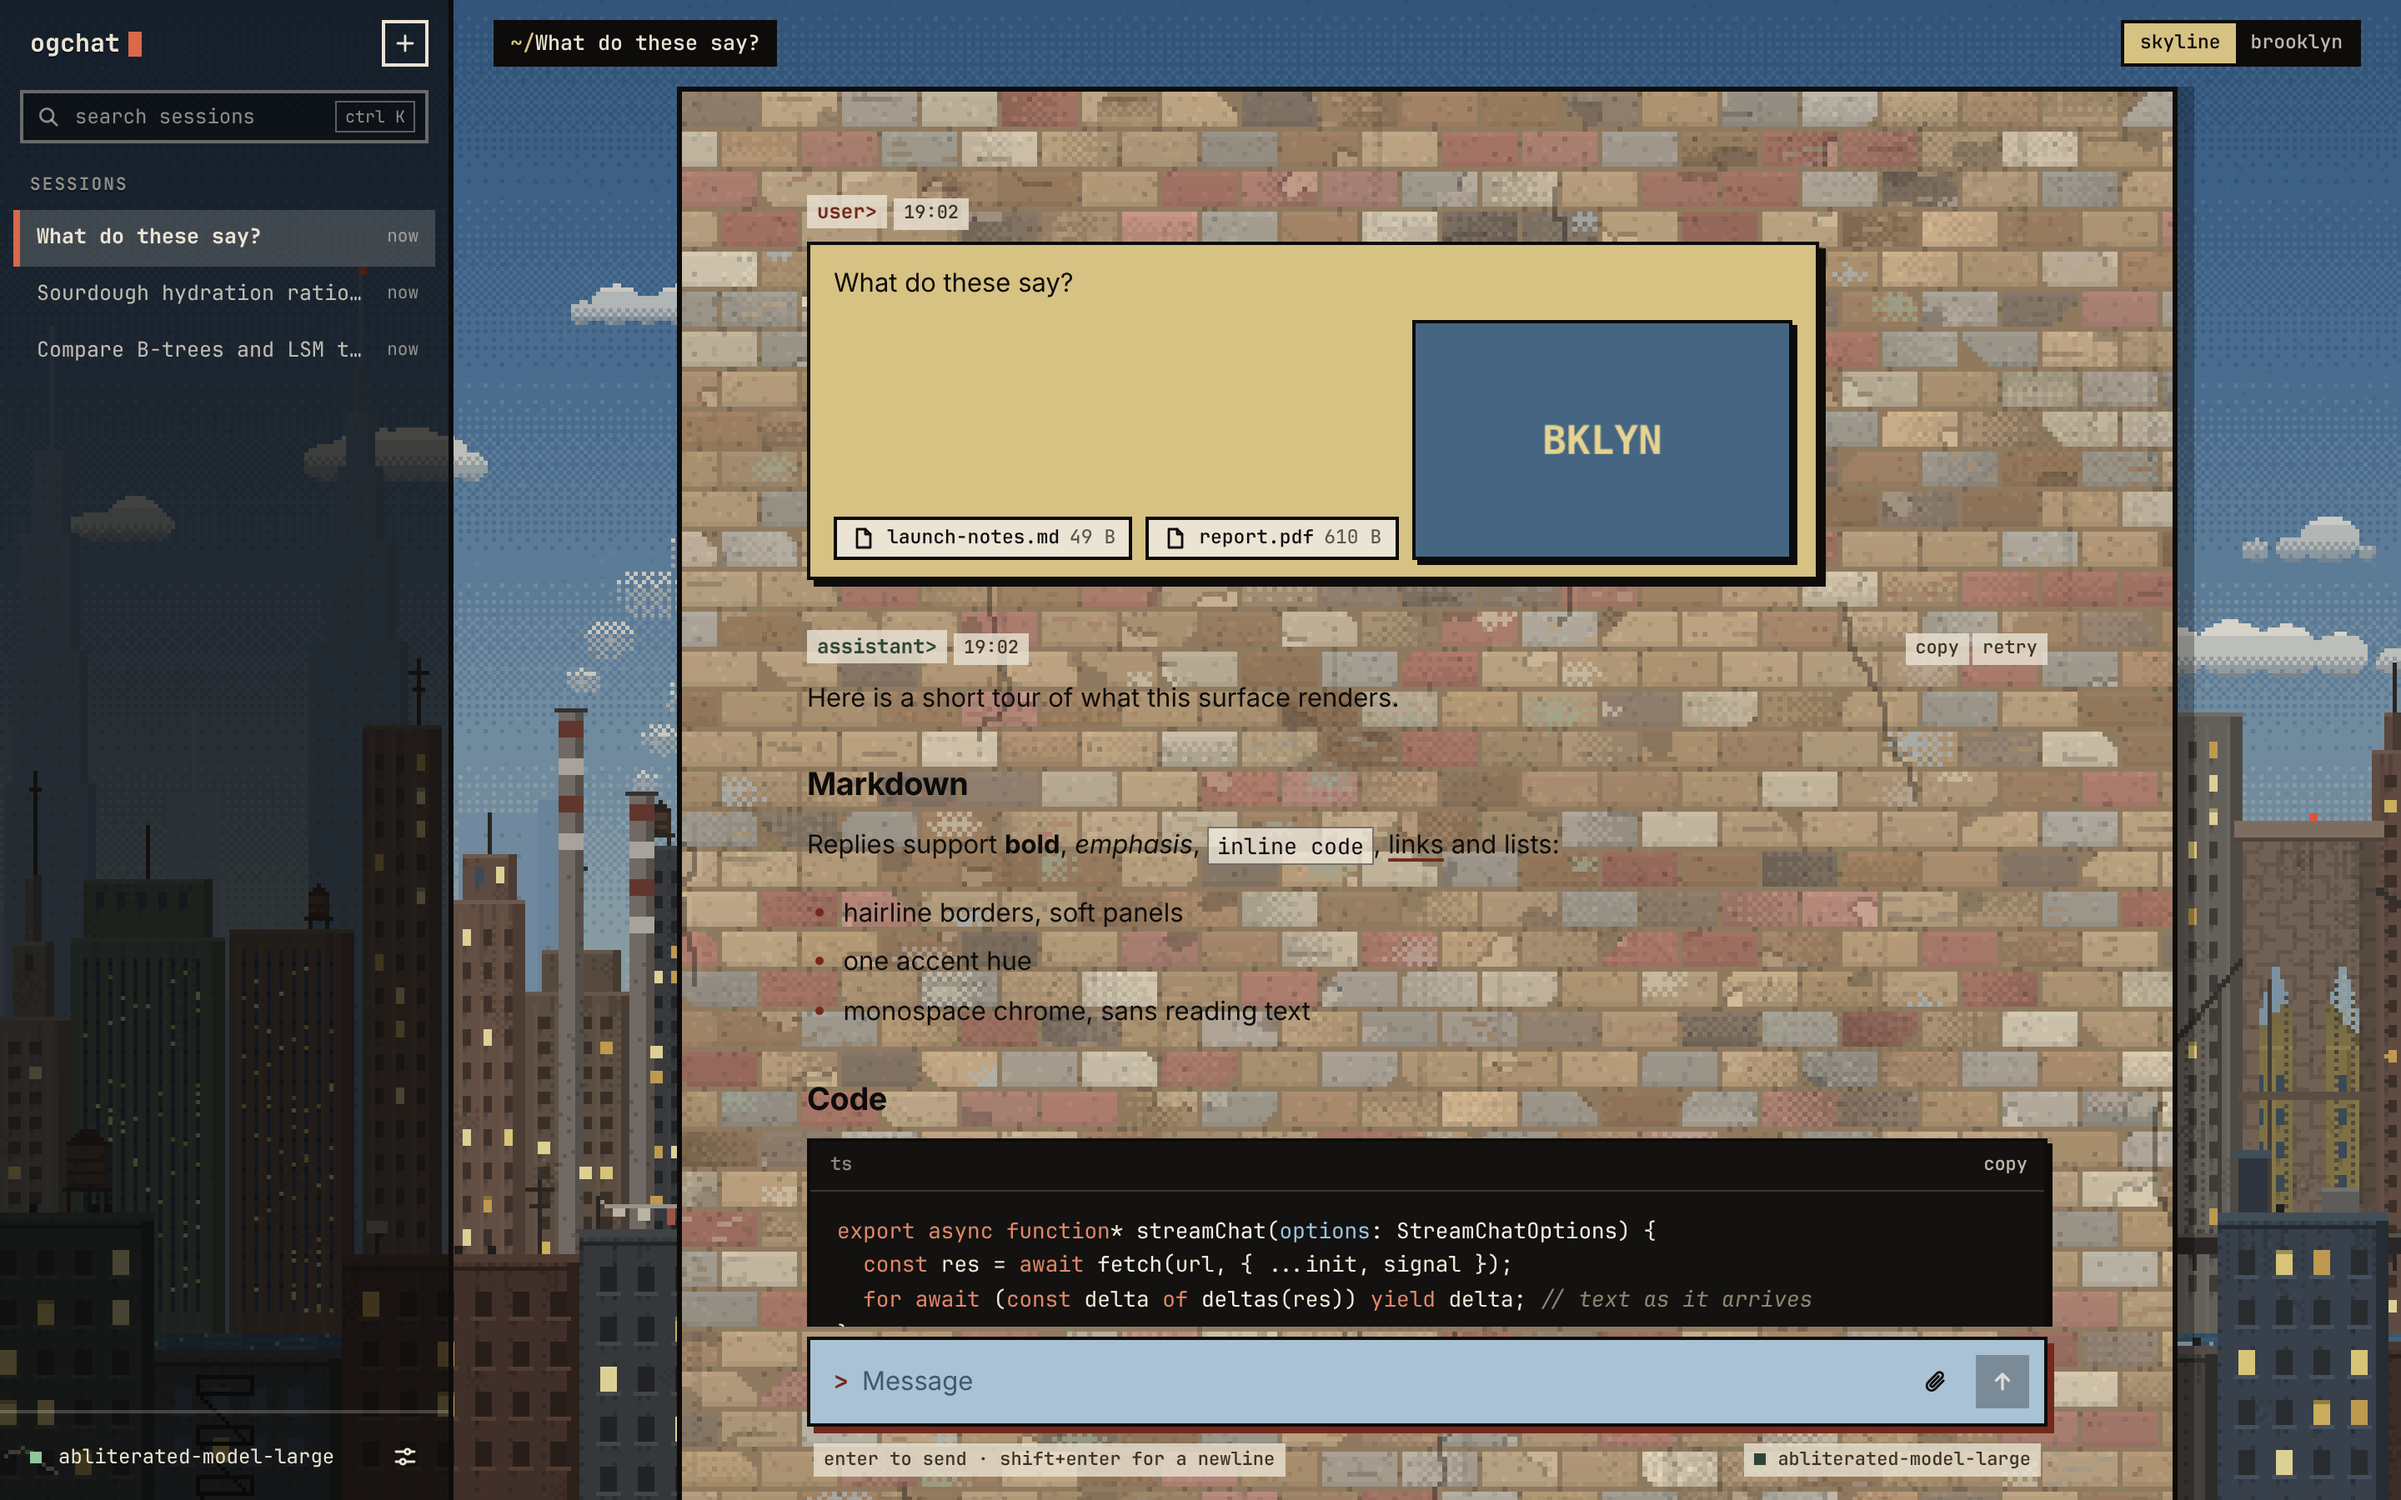
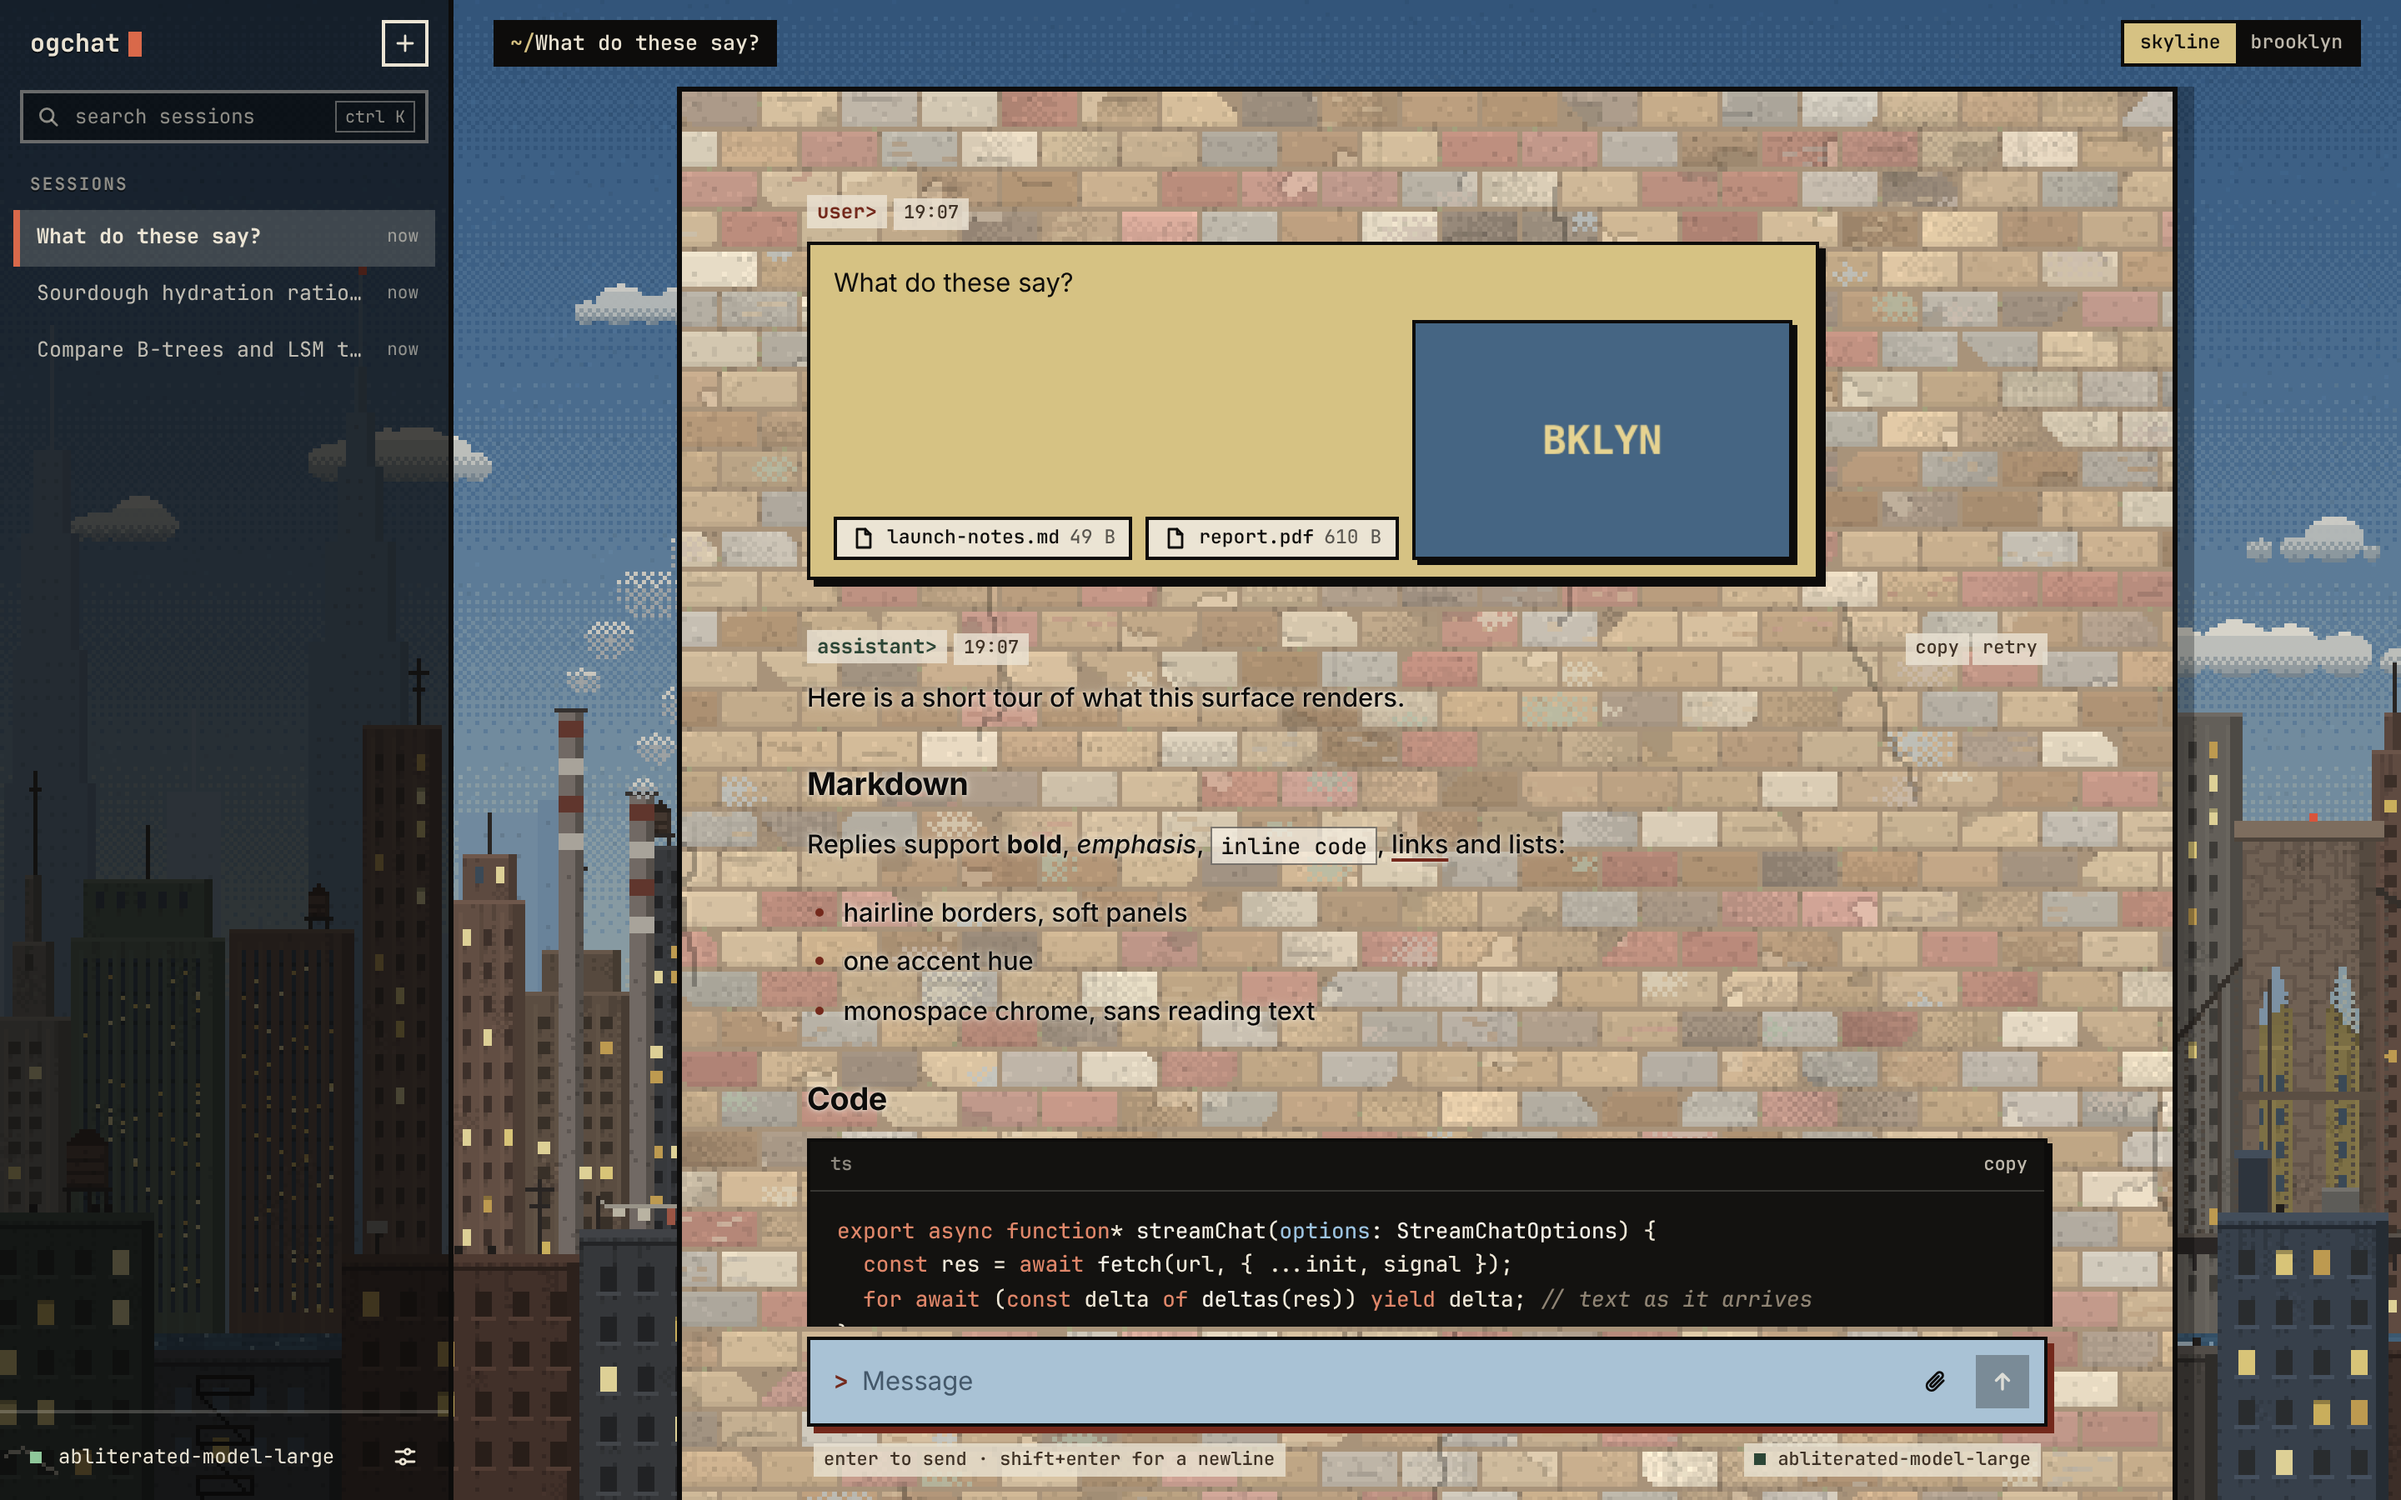
Make text on the wall easy to read
Black text on the wall measured about 5.6:1 contrast on average, with an
eighth of the surface under 4.5:1. Fixed from both sides:

- The wall is lighter. Every brick family keeps its colour (tan, brown,
  grey, dull red, limewashed, sooty) but sits several shades paler, the
  mortar with it, and the wear darkens a brick by a few percent at most.
  Average contrast is now about 7.9:1 and almost nothing is under 4.5:1.
- Replies written on the bricks are a little heavier and carry a soft
  pale halo, so letters stay sharp over the darker bricks. Text that has
  its own background (code, tables, your messages) is unchanged.

Claude-Session: https://claude.ai/code/session_01EBistM71Eern9ZJH7YkCX4

diff --git a/src/components/chat/theme.css b/src/components/chat/theme.css
@@ -18,8 +18,8 @@
   --og-white: #ebe4d4;
 
   /* the wall */
-  --og-brick: #af9778;
-  --og-brick-deep: #9d8567;
+  --og-brick: #c9b190;
+  --og-brick-deep: #a8937a;
 
   /* dark red mud brick: carets, the active session, primary actions */
   --og-accent: #74291c;
@@ -50,6 +50,15 @@
   --og-font-mono:
     "SF Mono", ui-monospace, "JetBrains Mono", "Cascadia Code", Menlo, Consolas, "Liberation Mono",
     monospace;
+
+  /*
+   * Lettering written straight onto the bricks carries a soft pale halo, like
+   * chalk dust round the paint, so it stays sharp on a dark brick as well as a
+   * light one.
+   */
+  --og-halo:
+    0 0 1px rgba(246, 240, 227, 0.95), 0 0 3px rgba(246, 240, 227, 0.8),
+    0 0 8px rgba(246, 240, 227, 0.45);
 
   /* pixel-art edges: square corners, hard outlines, hard offset shadows */
   --og-line: 2px;

diff --git a/src/components/chat/chat.module.css b/src/components/chat/chat.module.css
@@ -152,6 +152,7 @@
   line-height: 1;
   letter-spacing: -0.02em;
   color: var(--og-ink);
+  text-shadow: var(--og-halo);
 }
 
 .wordmarkCaret {
@@ -169,6 +170,7 @@
   font-weight: 500;
   line-height: 1.55;
   color: var(--og-ink);
+  text-shadow: var(--og-halo);
 }
 
 .loading {
@@ -759,6 +761,23 @@ a.chip:hover {
 }
 
 /* ---------------------------------------------------------------- markdown */
+
+/* Replies are written straight onto the wall: a little heavier, with the halo. */
+.md {
+  font-weight: 500;
+  text-shadow: var(--og-halo);
+}
+
+/* Anything with its own background needs no halo. */
+.md .codeBlock,
+.md .tableWrap,
+.md :not(pre) > code {
+  text-shadow: none;
+}
+
+.md .tableWrap {
+  font-weight: 400;
+}
 
 .md > :first-child {
   margin-top: 0;

diff --git a/README.md b/README.md
@@ -5,9 +5,10 @@ chat with streaming replies, file attachments, local history, and one
 configurable OpenAI-compatible provider. No accounts, no cloud, no telemetry.
 
 The chat is written in strong black on an old wall of pixelated bricks where no
-two are alike: mostly muted tan, with browns, greys, dull dark reds and
-limewashed pale ones, each with its own peeling, discolouring and chipped
-corners. The rest of the interface is see-through, over a pixel-art New York
+two are alike: mostly muted tan, with browns, greys, dull reds and limewashed
+pale ones, each with its own peeling, discolouring and chipped corners. The
+wall is kept light, and the lettering carries a soft pale halo, so the text
+stays easy to read on every brick. The rest of the interface is see-through, over a pixel-art New York
 that is quietly alive. There are two scenes, switched from the top-right corner
 and remembered in your browser:
 
